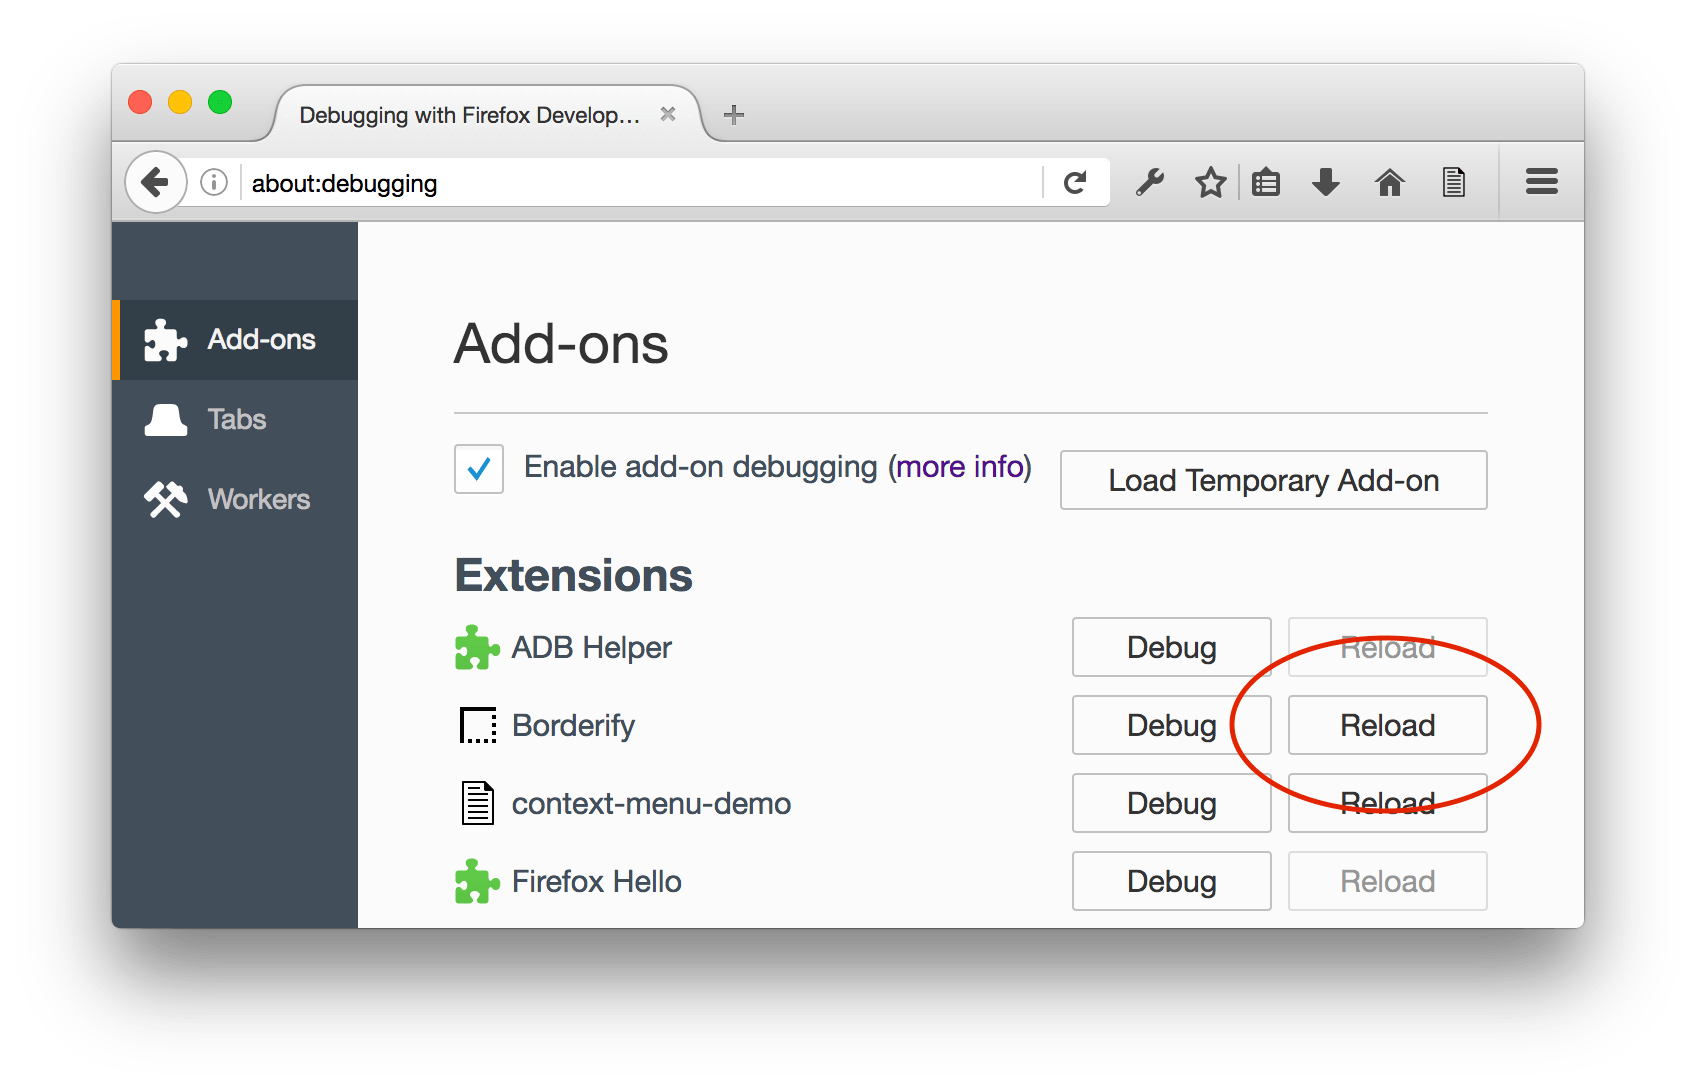
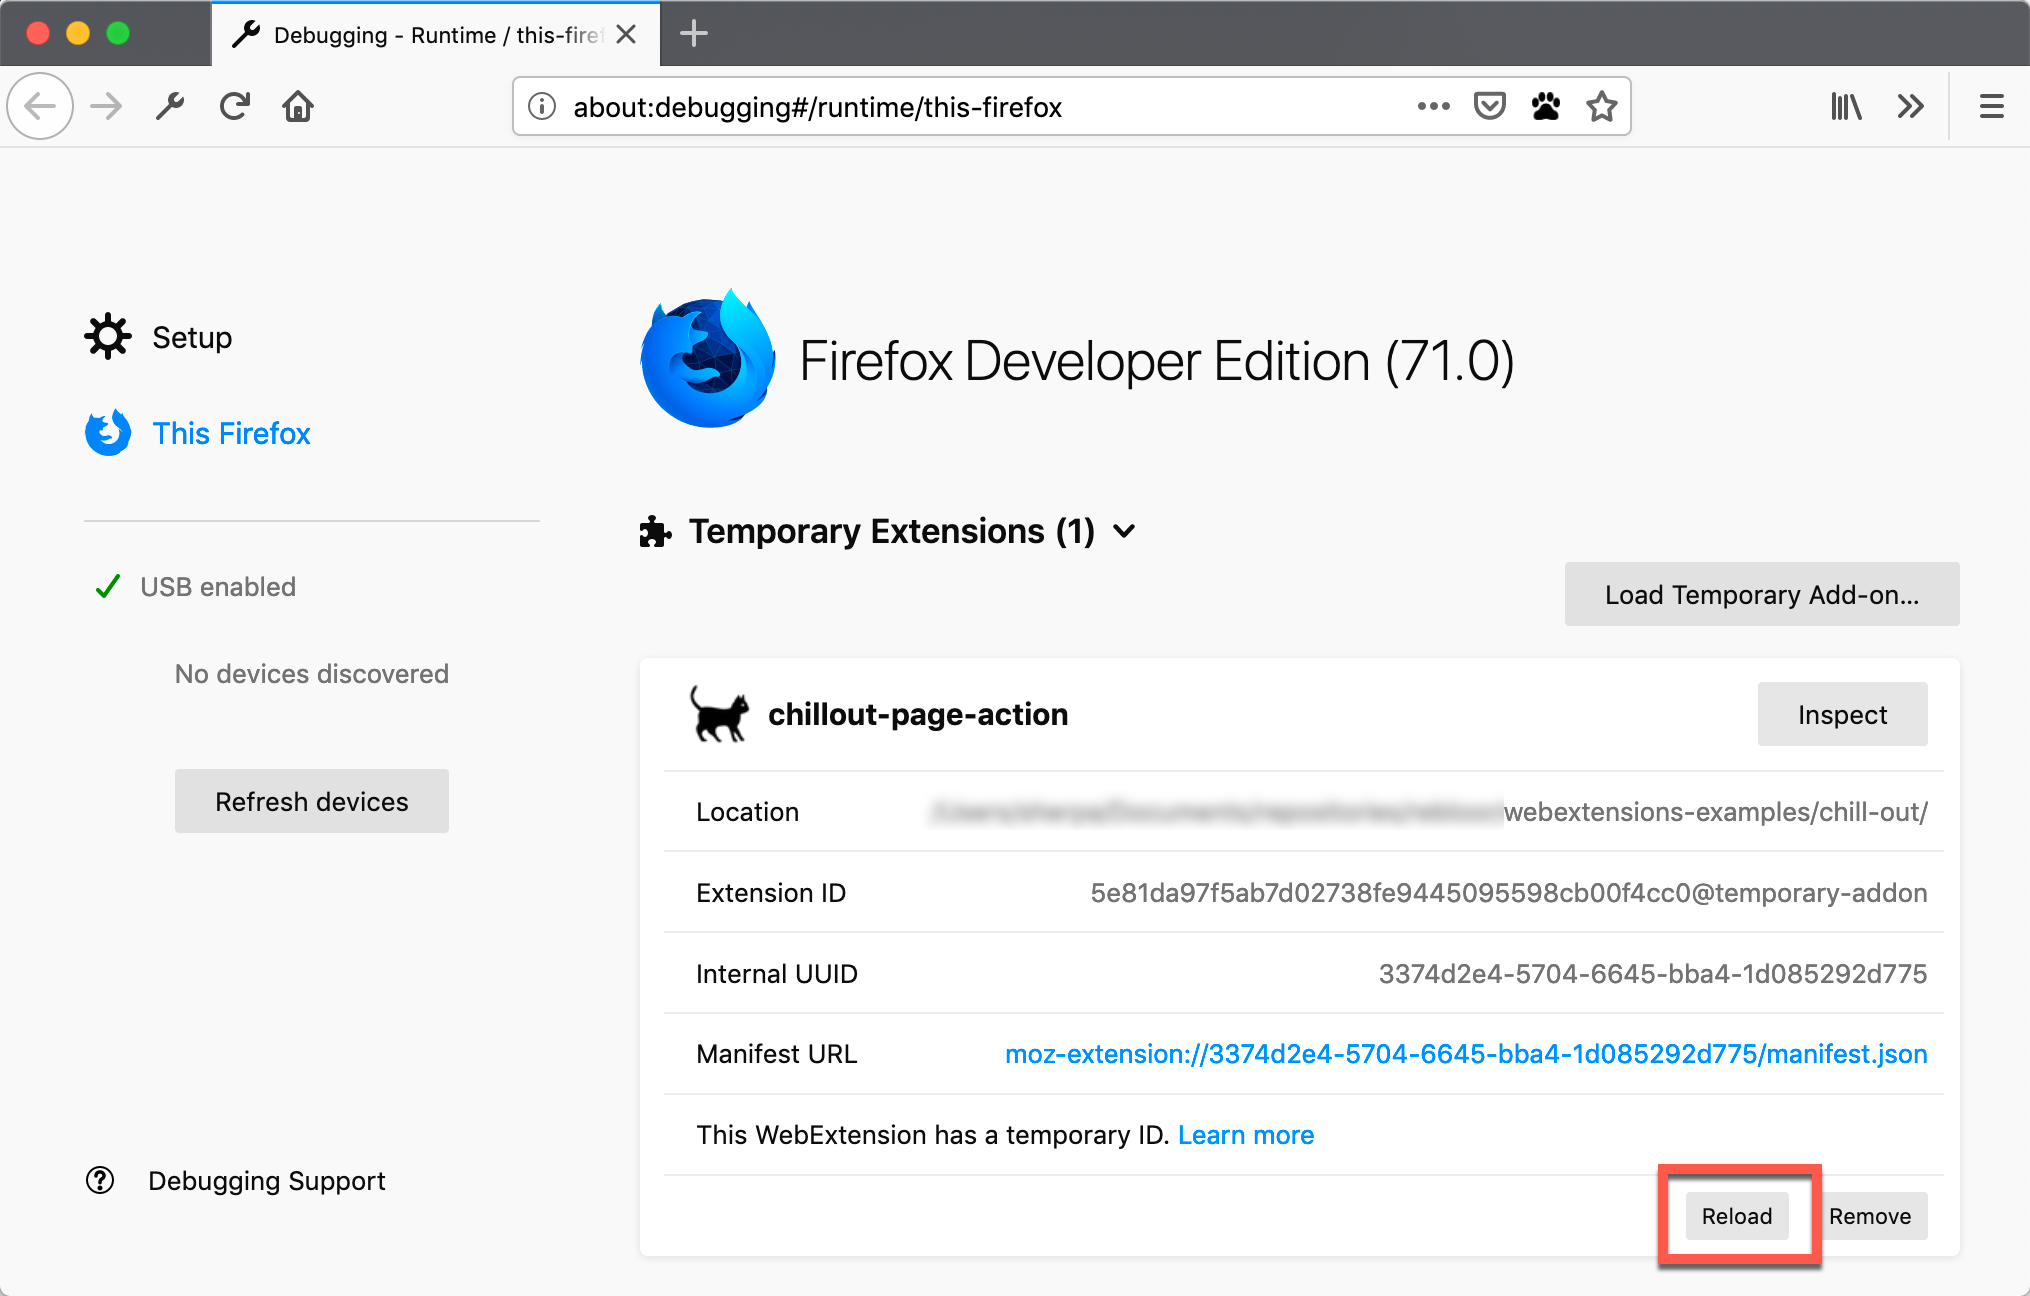
Changes to bring the descriptions, images, and videos on the "Temporary installation in Firefox" in line with the features of Firefox 7x

diff --git a/documentation/develop/temporary-installation-in-firefox.md b/documentation/develop/temporary-installation-in-firefox.md
@@ -27,9 +27,11 @@ date: 2019-03-18 18:38:23
 
 # Temporary installation in Firefox
 
-This article describes how an add-on developer can temporarily install an extension in Firefox for testing and debugging. The extension will stay installed until you restart Firefox. You can use this method with any kind of restartless extension, including [bootstrapped extensions](https://developer.mozilla.org/docs/Mozilla/Add-ons/Bootstrapped_extensions) and [Add-on SDK add-ons](https://developer.mozilla.org//docs/Mozilla/Add-ons/SDK).
+This article describes how you can temporarily install an extension in Firefox for testing and debugging. The extension stays installed until you remove it or restart Firefox.
 
-Note that this is not how end users should install add-ons in Firefox. End users will install add-ons by downloading and opening packaged add-ons that have been signed by Mozilla. To learn how an extension developer can get an add-on packaged and signed, see [Publishing your extension](/documentation/publish/package-your-extension).
+For extension development, automate the processes described on this page by using [web-ext](https://extensionworkshop.com/documentation/develop/getting-started-with-web-ext/).
+
+Note that this is not how end-users should install add-ons in Firefox. End-users install add-ons by downloading and opening packaged add-ons that have been signed by Mozilla. To learn how you get an add-on packaged and signed, see [Publishing your extension](/documentation/publish/package-your-extension).
 
 {% endcapture %}
 {% include modules/page-hero.html
@@ -44,10 +46,11 @@ To install an extension temporarily:
 
 - open Firefox
 - enter "about:debugging" in the URL bar
+- click "This Firefox"
 - click "Load Temporary Add-on"
 - open the extension's directory and select any file inside the extension.
 
-The extension will be installed, and will stay installed until you restart Firefox.
+The extension installs and remains installed until you remove it or restart Firefox.
 
 <!-- Single Column Body Module -->
 
@@ -76,14 +79,14 @@ The extension will be installed, and will stay installed until you restart Firef
 
 ## Reloading a temporary extension
 
-Starting in Firefox 48, there's a new button labeled "Reload" next to the extension's entry in about:debugging:
+To reload the extension, click "Reload":
 
 ![reload-extension]({% asset "documentation/develop/reload-extension.png" @optim @path %})
 
-This does what it says:
+This:
 
-- reloading any persistent scripts, such as [background scripts](https://developer.mozilla.org/Add-ons/WebExtensions/Anatomy_of_a_WebExtension#Background_scripts)
-- parsing the `manifest.json` file again, so changes to [`permissions`](https://developer.mozilla.org/docs/Mozilla/Add-ons/WebExtensions/manifest.json/permissions), [`content_scripts`](https://developer.mozilla.org/docs/Mozilla/Add-ons/WebExtensions/manifest.json/content_scripts), [`browser_action`](https://developer.mozilla.org/docs/Mozilla/Add-ons/WebExtensions/manifest.json/browser_action) or any other keys will take effect.
+- reloads any persistent scripts, such as [background scripts](https://developer.mozilla.org/Add-ons/WebExtensions/Anatomy_of_a_WebExtension#Background_scripts)
+- parses the `manifest.json` file, so changes to [`permissions`](https://developer.mozilla.org/docs/Mozilla/Add-ons/WebExtensions/manifest.json/permissions), [`content_scripts`](https://developer.mozilla.org/docs/Mozilla/Add-ons/WebExtensions/manifest.json/content_scripts), [`browser_action`](https://developer.mozilla.org/docs/Mozilla/Add-ons/WebExtensions/manifest.json/browser_action), or any other keys take effect.
 
 <!-- Video Popup Thumbnail -->
 
@@ -96,6 +99,7 @@ This does what it says:
 
 <!-- END: Video Popup Thumbnail -->
 
+<!-- 
 {% capture note %}
 
 Note that in Firefox 48 only, "Reload" does not update the extension's name and description that are displayed in about:debugging and about:addons. This is fixed in Firefox 49.
@@ -105,7 +109,7 @@ Note that in Firefox 48 only, "Reload" does not update the extension's name and 
     content=note
     alert=false
 %}
-
+-->
 {% endcapture %}
 {% include modules/one-column.html
   id="reloading-a-temporary-extension"
@@ -115,13 +119,13 @@ Note that in Firefox 48 only, "Reload" does not update the extension's name and 
 
 <!-- END: Single Column Body Module -->
 
-<!-- Single Column Body Module -->
+<!-- Single Column Body Module 
 
 {% capture content %}
 
 ## Using the command line
 
-If you are already using the command line for development, check out the [web-ext](/documentation/develop/getting-started-with-web-ext) tool. It automates the temporary installation step and automatically reloads your extension when its source code changes.
+If you use the command line for development, check out [web-ext](/documentation/develop/getting-started-with-web-ext). It automates the temporary installation and automatically reloads your extension when its source code changes.
 
 {% endcapture %}
 {% include modules/one-column.html
@@ -129,7 +133,7 @@ If you are already using the command line for development, check out the [web-ex
   content=content
   aside=""
 %}
-
+-->
 <!-- END: Single Column Body Module -->
 
 <!-- Single Column Body Module -->
@@ -138,7 +142,7 @@ If you are already using the command line for development, check out the [web-ex
 
 ## Detecting temporary installation
 
-Your extension can detect whether it was installed from about:debugging rather than as a built and signed extension downloaded from [addons.mozilla.org](https://addons.mozilla.org). Listen for the [`runtime.onInstalled`](https://developer.mozilla.org/docs/Mozilla/Add-ons/WebExtensions/API/runtime/onInstalled) event, and check the value of `details.temporary`.
+An extension can detect whether it was installed from about:debugging, rather than as a signed extension downloaded from [addons.mozilla.org](https://addons.mozilla.org). It does this by listening for the [`runtime.onInstalled`](https://developer.mozilla.org/docs/Mozilla/Add-ons/WebExtensions/API/runtime/onInstalled) event, and checking the value of `details.temporary`.
 
 {% endcapture %}
 {% include modules/one-column.html
@@ -155,9 +159,9 @@ Your extension can detect whether it was installed from about:debugging rather t
 
 ## Limitations
 
-Temporary installation of an extension doesn’t fully mimic the behavior of a signed extension. For example, if the extension makes installation time permission requests, these are not displayed as part of the temporary installation process. Also, features, such as local storage, persist even if the extension is removed and the browser restarted.
+The temporary installation of an extension doesn’t fully mimic the behavior of a signed extension. For example, if the extension makes installation time permission requests, these are not displayed as part of the temporary installation process. Also, features, such as local storage, persist even if the extension is removed and the browser restarted.
 
-For information on how to address these situations, see [Test permission requests](https://developer.mozilla.org/docs/Mozilla/Add-ons/WebExtensions/Test_permission_requests) and [Testing persistent and restart features.](https://developer.mozilla.org/docs/Mozilla/Add-ons/WebExtensions/Testing_persistent_and_restart_features)
+For information on how to address these situations, see [Test permission requests](/documentation/develop/test-permission-requests/) and [Testing persistent and restart features.](/documentation/develop/testing-persistent-and-restart-features/)
 
 {% endcapture %}
 {% include modules/one-column.html
